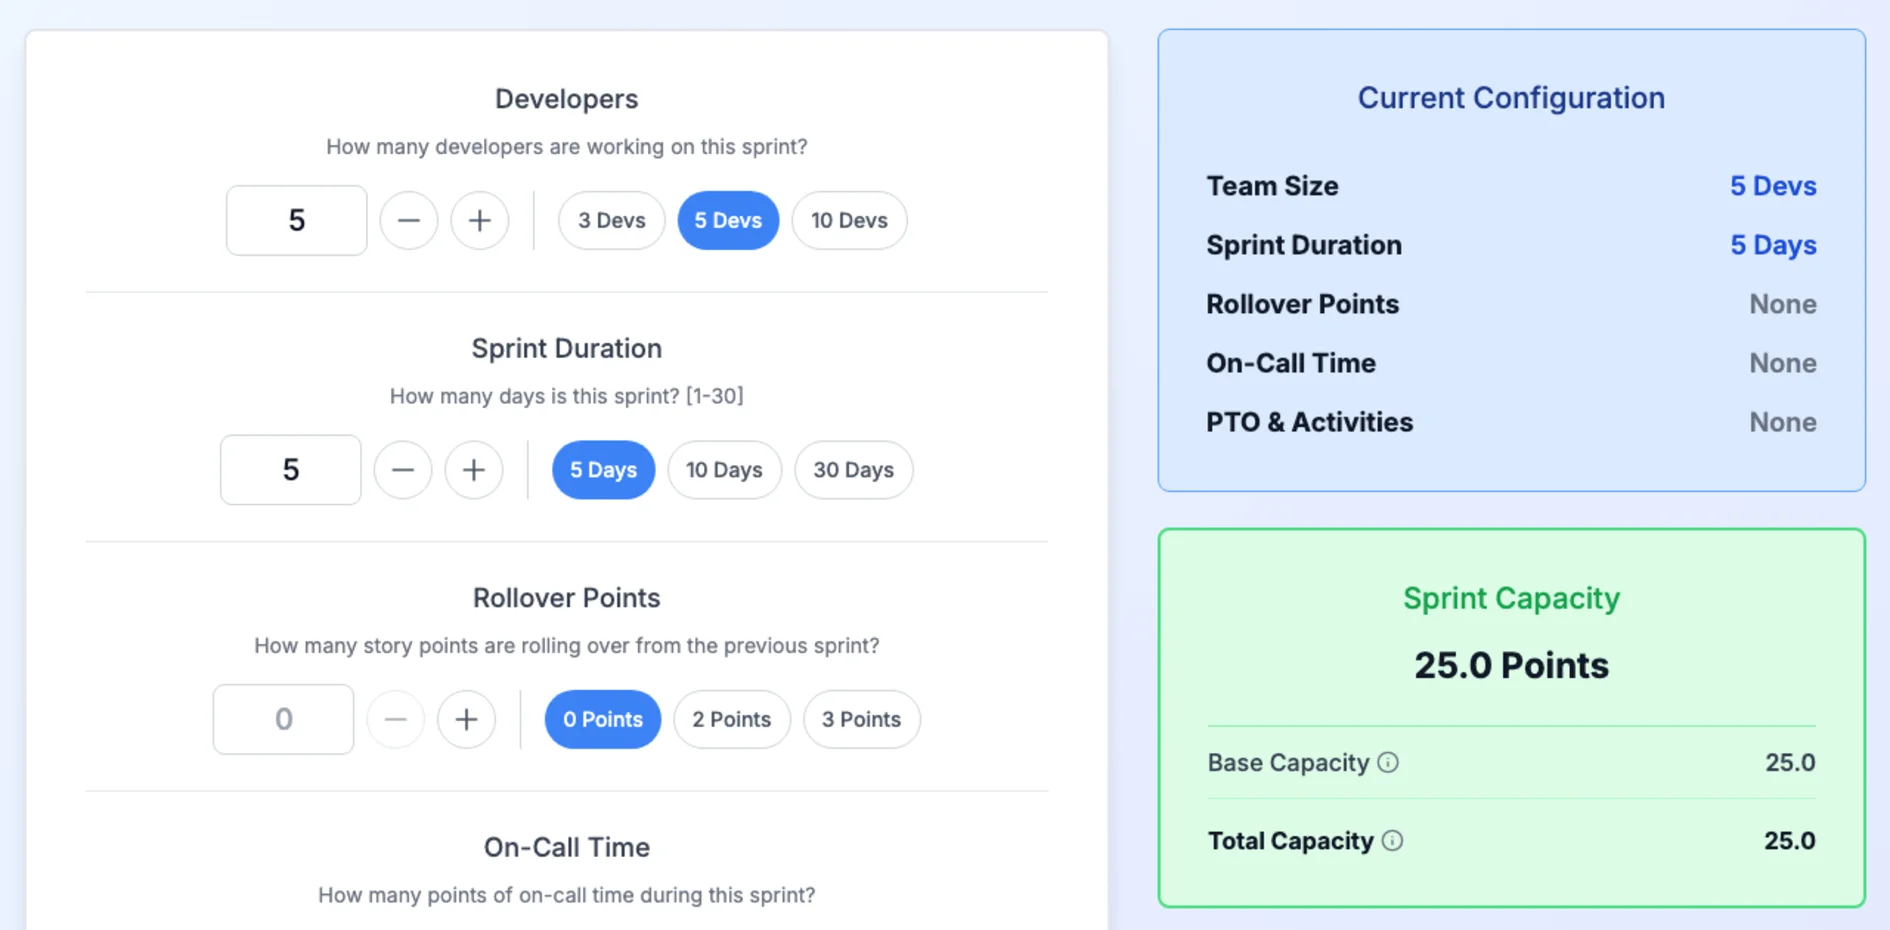
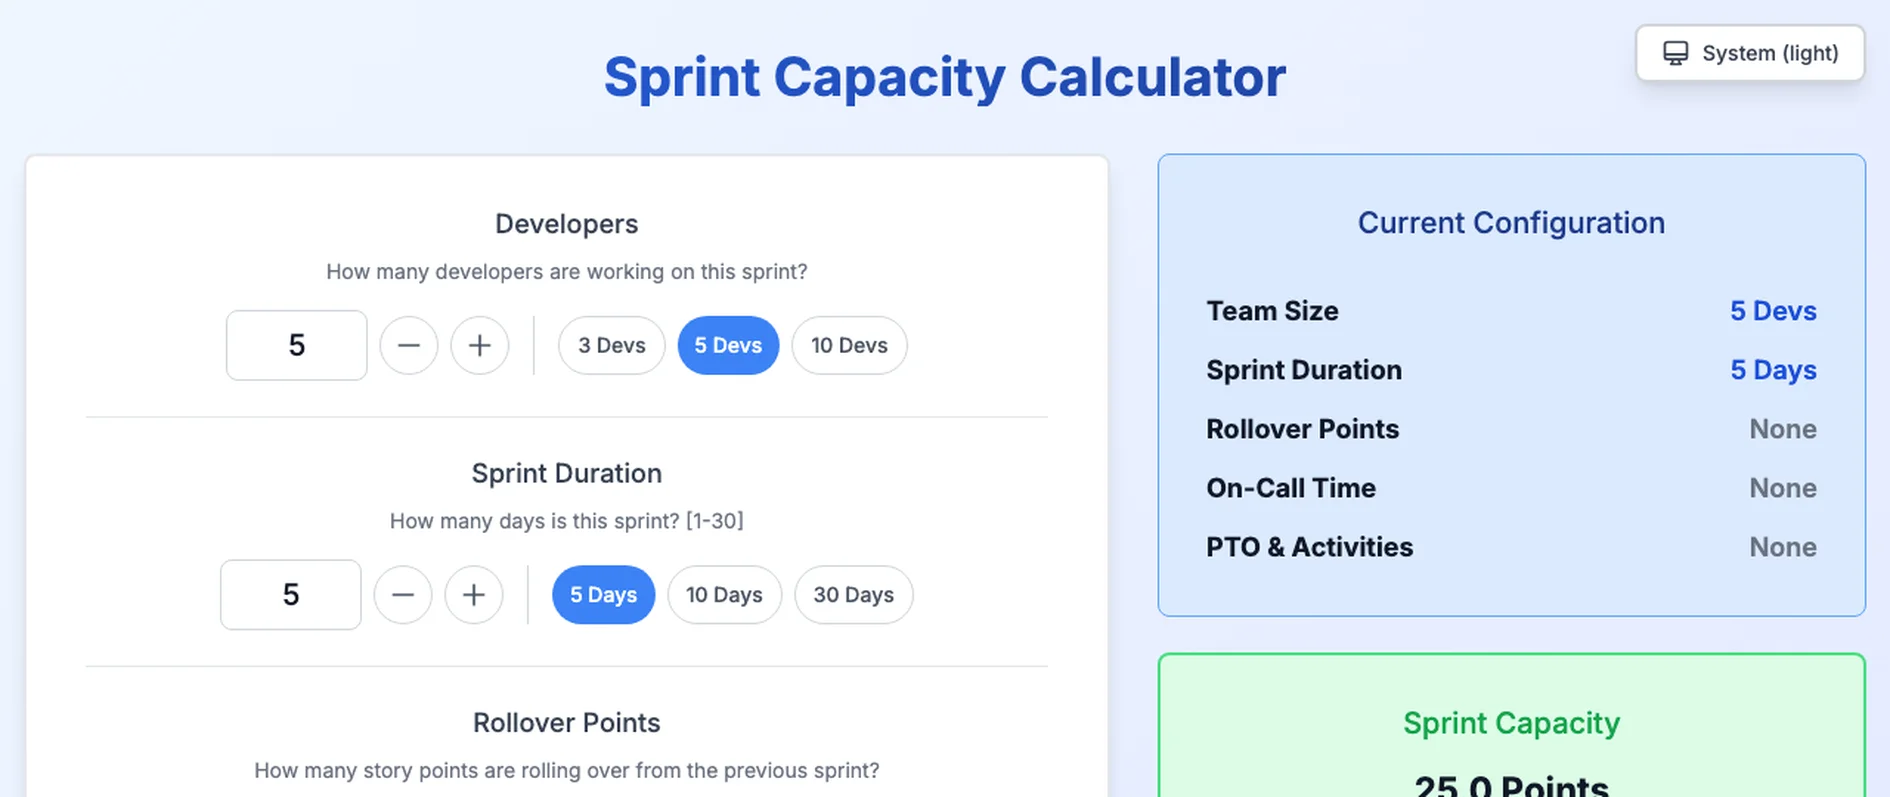
feat: add software projects and refresh project thumbnails
Add TrueNAS Config Backup, readme-screenshot, DiagonalBlend, Jira Quick
Filters, and SDGE Rate Checker; convert bullet copy to markdown strings.

diff --git a/src/data/swProjects.ts b/src/data/swProjects.ts
@@ -1,5 +1,6 @@
 import AMSLawThumbnail from "assets/Projects/Software/AMS_Law.webp"
 import ChickFilAThumbnail from "assets/Projects/Software/Chick_Fil_A.webp"
+import DiagonalBlendThumbnail from "assets/Projects/Software/DiagonalBlend.webp"
 import DiggermanVideoThumbnailMp4 from "assets/Projects/Software/Diggerman.mp4"
 import DiggermanVideoThumbnail from "assets/Projects/Software/Diggerman.webm"
 import DiggermanThumbnail from "assets/Projects/Software/Diggerman.webp"
@@ -7,13 +8,16 @@ import FaceSwappingVideoThumbnailMp4 from "assets/Projects/Software/Face_Morphin
 import FaceSwappingVideoThumbnail from "assets/Projects/Software/Face_Morphing.webm"
 import FaceSwappingThumbnail from "assets/Projects/Software/Face_Morphing.webp"
 import HomeServerThumbnail from "assets/Projects/Software/Home_Server.webp"
+import JiraQuickFiltersThumbnail from "assets/Projects/Software/Jira_Quick_Filters.webp"
 import ObjectDetectionThumbnail from "assets/Projects/Software/Object_Detection.webp"
 import PlextraktboxThumbnail from "assets/Projects/Software/Plextraktbox.webp"
 import PortfolioThumbnail from "assets/Projects/Software/Portfolio_Thumbnail.webp"
+import ReadmeScreenshotThumbnail from "assets/Projects/Software/Readme_Screenshot.webp"
+import SDGERateCheckerThumbnail from "assets/Projects/Software/SDGE_Rate_Checker.webp"
 import SpotifyPPThumbnail from "assets/Projects/Software/Spotify.webp"
 import SprintPlannerThumbnail from "assets/Projects/Software/Sprint_Planner.webp"
+import TrueNASConfigBackupThumbnail from "assets/Projects/Software/TrueNAS_Config_Backup.webp"
 import { SoftwareProject, SoftwareProjectMap } from "types/project.types"
-import { createExternalLink } from "utils/contentUtils"
 
 import * as technologies from "./technologies"
 
@@ -32,16 +36,10 @@ const projects: SoftwareProject[] = [
       technologies.CLOUDFLARE,
     ],
     bulletPoints: [
-      [
-        "Professional law firm website specializing in estate planning, built with Next.js 15 and React 19, deployed on Cloudflare Workers.",
-      ],
-      [
-        "Features responsive design with dark mode support, contact form with email integration using ",
-        createExternalLink("Resend", "https://resend.com/"),
-        ", Yelp reviews integration, and interactive maps.",
-      ],
-      ["Includes comprehensive FAQ section, attorney profile, services overview, and SEO optimization with structured data."],
-      ["Automated testing with Vitest and Playwright, CI/CD pipeline with GitHub Actions, and semantic versioning for releases."],
+      "Professional law firm website specializing in estate planning, built with Next.js 15 and React 19, deployed on Cloudflare Workers.",
+      "Features responsive design with dark mode support, contact form with email integration using [Resend](https://resend.com/), Yelp reviews integration, and interactive maps.",
+      "Includes comprehensive FAQ section, attorney profile, services overview, and SEO optimization with structured data.",
+      "Automated testing with Vitest and Playwright, CI/CD pipeline with GitHub Actions, and semantic versioning for releases.",
     ],
     githubLink: "https://github.com/CampAsAChamp/amslaw",
     siteLink: "https://annamschneiderlaw.com",
@@ -51,15 +49,9 @@ const projects: SoftwareProject[] = [
     name: "Sprint Planner",
     technologies: [technologies.NEXTJS, technologies.REACT, technologies.TYPESCRIPT, technologies.TAILWIND, technologies.GITHUB_ACTIONS],
     bulletPoints: [
-      [
-        "Next.js PWA for real-time sprint capacity planning: ",
-        "(team members × sprint days) − PTO days − on-call days − rollover points",
-        ".",
-      ],
-      [
-        "Tracks PTO and activities, on-call time, and unfinished work from prior sprints; save, load, duplicate, rename, and delete configurations in local storage.",
-      ],
-      ["Static export deployed to GitHub Pages with installable PWA support, dark mode, and toast feedback."],
+      "Next.js PWA for real-time sprint capacity planning: (team members × sprint days) − PTO days − on-call days − rollover points.",
+      "Tracks PTO and activities, on-call time, and unfinished work from prior sprints; save, load, duplicate, rename, and delete configurations in local storage.",
+      "Static export deployed to GitHub Pages with installable PWA support, dark mode, and toast feedback.",
     ],
     githubLink: "https://github.com/CampAsAChamp/sprint-planner",
     siteLink: "https://campasachamp.github.io/sprint-planner/",
@@ -79,44 +71,77 @@ const projects: SoftwareProject[] = [
       technologies.LINUX,
     ],
     bulletPoints: [
-      [
-        "Self-hosted all-in-one sync for ",
-        createExternalLink("Plex", "https://www.plex.tv/"),
-        ", ",
-        createExternalLink("Letterboxd", "https://letterboxd.com/"),
-        ", and ",
-        createExternalLink("Trakt", "https://trakt.tv/"),
-        " — web UI, built-in scheduler, live log streaming, and notifications in one Docker image.",
-      ],
-      [
-        "Per-data-type source of truth: watchlist from Plex, ratings from Letterboxd (read-only), watched history from Trakt; FastAPI + React/Vite SPA with SQLite persistence and Mantine UI.",
-      ],
-      [
-        "Targets ",
-        createExternalLink("TrueNAS SCALE", "https://www.truenas.com/truenas-scale/"),
-        " for home-lab installs; App Catalog publication planned so others can install easily.",
-      ],
+      "Self-hosted all-in-one sync for [Plex](https://www.plex.tv/), [Letterboxd](https://letterboxd.com/), and [Trakt](https://trakt.tv/) — web UI, built-in scheduler, live log streaming, and notifications in one Docker image.",
+      "Per-data-type source of truth: watchlist from Plex, ratings from Letterboxd (read-only), watched history from Trakt; FastAPI + React/Vite SPA with SQLite persistence and Mantine UI.",
+      "Targets [TrueNAS SCALE](https://www.truenas.com/truenas-scale/) for home-lab installs; App Catalog publication planned so others can install easily.",
     ],
     githubLink: "https://github.com/CampAsAChamp/plextraktbox",
     thumbnail: PlextraktboxThumbnail,
   },
   {
+    name: "TrueNAS Config Backup",
+    technologies: [technologies.PYTHON, technologies.FASTAPI, technologies.DOCKER, technologies.LINUX],
+    bulletPoints: [
+      "Scheduled [TrueNAS SCALE](https://www.truenas.com/truenas-scale/) config backups via the WebSocket API (`config.save` + `core.download`), with API-key auth, retention pruning, and run-history logging.",
+      "Web dashboard to view, download, and delete backups; optional cron schedule (APScheduler) plus on-demand run now.",
+      "Packaged as a Custom App (native Docker) for TrueNAS SCALE 24.10+ with health checks and jsonl run history.",
+    ],
+    githubLink: "https://github.com/CampAsAChamp/truenas-config-backup",
+    thumbnail: TrueNASConfigBackupThumbnail,
+    thumbnailObjectPosition: "top left",
+  },
+  {
+    name: "readme-screenshot",
+    technologies: [technologies.TYPESCRIPT, technologies.NODEJS, technologies.PLAYWRIGHT, technologies.GITHUB_ACTIONS, technologies.VITEST],
+    bulletPoints: [
+      "Config-driven [Playwright](https://playwright.dev/) screenshot automation for static sites and web apps — define capture, theme, and server setup in `.readme-screenshot.yml`.",
+      "Optional light/dark blend step via DiagonalBlend for README hero images; validate, capture, and commit-message CLI commands.",
+      "Reusable GitHub Actions workflow auto-captures screenshots and commits updated assets on a schedule or after deploys.",
+    ],
+    githubLink: "https://github.com/CampAsAChamp/readme-screenshot",
+    thumbnail: ReadmeScreenshotThumbnail,
+  },
+  {
+    name: "DiagonalBlend",
+    technologies: [technologies.PYTHON, technologies.FASTAPI, technologies.HTML5, technologies.CSS3],
+    bulletPoints: [
+      "Blends two same-scene images along a diagonal line with a soft gradient — built for comparing light and dark mode screenshots in README hero images.",
+      "CLI (`diag_blend`), Python API (`blend_images`), and drag-and-drop web UI with live preview and PNG download.",
+      "Configurable blend angle, width, and flip sides; FastAPI backend serves the web UI and `/api/blend` endpoint.",
+    ],
+    githubLink: "https://github.com/CampAsAChamp/DiagonalBlend",
+    thumbnail: DiagonalBlendThumbnail,
+  },
+  {
+    name: "Jira Mutually Exclusive Quick Filters",
+    technologies: [technologies.JAVASCRIPT, technologies.HTML5, technologies.CSS3],
+    bulletPoints: [
+      "Chrome extension (Manifest V3) that makes Jira quick filters mutually exclusive — clicking one filter auto-deselects all others.",
+      "Toggle on/off via the extension popup; settings persist across browser sessions via Chrome Storage API.",
+      "Works on [Atlassian Cloud](https://www.atlassian.com/software/jira) and common self-hosted Jira URL patterns (Backlog and Active Sprint views).",
+    ],
+    githubLink: "https://github.com/CampAsAChamp/jira-single-click-filters",
+    thumbnail: JiraQuickFiltersThumbnail,
+  },
+  {
+    name: "SDGE Rate Checker",
+    technologies: [technologies.JAVASCRIPT, technologies.HTML5, technologies.CSS3],
+    bulletPoints: [
+      "Real-time [SDGE](https://www.sdge.com/) Time of Use period tracker — shows current rate level, time range, and when the next period change occurs.",
+      "Automatic weekday/weekend and seasonal schedule detection (summer vs. winter TOU windows).",
+      "Static single-page app with live updates every second; deployed to GitHub Pages with no backend required.",
+    ],
+    githubLink: "https://github.com/CampAsAChamp/sdge-rate-checker",
+    siteLink: "https://campasachamp.github.io/sdge-rate-checker/",
+    thumbnail: SDGERateCheckerThumbnail,
+  },
+  {
     name: "Los Angeles Sports Chick Fil A Scraper",
     technologies: [technologies.PYTHON, technologies.GITHUB_ACTIONS],
     bulletPoints: [
-      [
-        "Python scraper (Beautiful Soup + requests) that pulls prior day match results from ",
-        createExternalLink("Baseball-Reference", "https://www.baseball-reference.com/"),
-        ", ",
-        createExternalLink("Hockey-Reference", "https://www.hockey-reference.com/"),
-        ", and ",
-        createExternalLink("FBref", "https://fbref.com/"),
-        " for Angels, Ducks, and LAFC, then checks Chick-fil-A home-game promo thresholds: Angels 7+ runs, Ducks 5+ goals, or an LAFC win.",
-      ],
-      ["Season-aware scheduling: only evaluates each team while that sport is in season; runs daily at 8 AM PT via GitHub Actions cron."],
-      [
-        "Emails a Gmail SMTP reminder when criteria are met; includes local HTML sample pages so the parsers can be tested without hitting live sites.",
-      ],
+      "Python scraper (Beautiful Soup + requests) that pulls prior day match results from [Baseball-Reference](https://www.baseball-reference.com/), [Hockey-Reference](https://www.hockey-reference.com/), and [FBref](https://fbref.com/) for Angels, Ducks, and LAFC, then checks Chick-fil-A home-game promo thresholds: Angels 7+ runs, Ducks 5+ goals, or an LAFC win.",
+      "Season-aware scheduling: only evaluates each team while that sport is in season; runs daily at 8 AM PT via GitHub Actions cron.",
+      "Emails a Gmail SMTP reminder when criteria are met; includes local HTML sample pages so the parsers can be tested without hitting live sites.",
     ],
     githubLink: "https://github.com/CampAsAChamp/los-angeles-sports-chick-fil-a-scraper",
     thumbnail: ChickFilAThumbnail,
@@ -134,17 +159,9 @@ const projects: SoftwareProject[] = [
       technologies.FIGMA,
     ],
     bulletPoints: [
-      [
-        "Personal portfolio SPA (React + TypeScript + Vite) at ",
-        createExternalLink("nickhs.dev", "https://nickhs.dev"),
-        ", with dark/light theme, scroll-driven sections, and Cloudflare Pages deploy.",
-      ],
-      [
-        "Local experience-sync pipeline: YAML source of truth with a localhost editor that syncs experience copy into the site plus LinkedIn/resume exports.",
-      ],
-      [
-        "Quality bar: Vitest unit tests, Playwright desktop/mobile E2E, Lighthouse CI, Husky/lint-staged hooks, and semantic-release for versioning and changelog.",
-      ],
+      "Personal portfolio SPA (React + TypeScript + Vite) at [nickhs.dev](https://nickhs.dev), with dark/light theme, scroll-driven sections, and Cloudflare Pages deploy.",
+      "Experience-sync tooling: YAML source of truth with a localhost editor (`yarn exp:ui`) that generates portfolio experience data and LinkedIn/resume exports — one place to edit job-history copy across channels.",
+      "Quality bar: Vitest unit tests, Playwright desktop/mobile E2E, Lighthouse CI, Husky/lint-staged hooks, and semantic-release for versioning and changelog.",
     ],
     githubLink: "https://github.com/CampAsAChamp/portfolio",
     siteLink: "https://nickhs.dev",
@@ -163,15 +180,9 @@ const projects: SoftwareProject[] = [
       technologies.CLOUDFLARE,
     ],
     bulletPoints: [
-      [
-        "Self-hosted Ubuntu lab: Docker Compose stacks behind Nginx Proxy Manager, with Cloudflare-facing hostnames and a Homer dashboard for service discovery.",
-      ],
-      [
-        "Media pipeline: Plex + Sonarr/Radarr/Prowlarr/Jackett, qBittorrent routed through a Gluetun VPN, plus Immich for photos and File Browser for storage.",
-      ],
-      [
-        "Ops extras: Portainer for container management, Scrutiny for drive health, Watchtower for image updates, MergerFS/SnapRAID-backed pool storage, plus optional Spotify analytics and Minecraft stacks.",
-      ],
+      "Self-hosted Ubuntu lab: Docker Compose stacks behind Nginx Proxy Manager, with Cloudflare-facing hostnames and a Homer dashboard for service discovery.",
+      "Media pipeline: Plex + Sonarr/Radarr/Prowlarr/Jackett, qBittorrent routed through a Gluetun VPN, plus Immich for photos and File Browser for storage.",
+      "Ops extras: Portainer for container management, Scrutiny for drive health, Watchtower for image updates, MergerFS/SnapRAID-backed pool storage, plus optional Spotify analytics and Minecraft stacks.",
     ],
     githubLink: "https://github.com/CampAsAChamp/home-server",
     thumbnail: HomeServerThumbnail,
@@ -180,17 +191,9 @@ const projects: SoftwareProject[] = [
     name: "Diggerman",
     technologies: [technologies.CPP, technologies.OPEN_GL],
     bulletPoints: [
-      [
-        "Dig Dug–style 2D game in C++ with ",
-        createExternalLink("OpenGL", "https://www.opengl.org/"),
-        "/freeglut: dig through a dirt grid, avoid falling boulders, collect oil barrels to clear the level.",
-      ],
-      [
-        'Protester AI with state machines (wander, chase, stunned, leave); pathfinding via BFS back to the exit; harder "hardcore" protesters that track the player more aggressively.',
-      ],
-      [
-        "Player tools and pickups: water squirts, sonar reveal, gold bait to distract enemies, scoring, and irrKlang sound effects; built as a Visual Studio team project.",
-      ],
+      "Dig Dug–style 2D game in C++ with [OpenGL](https://www.opengl.org/)/freeglut: dig through a dirt grid, avoid falling boulders, collect oil barrels to clear the level.",
+      'Protester AI with state machines (wander, chase, stunned, leave); pathfinding via BFS back to the exit; harder "hardcore" protesters that track the player more aggressively.',
+      "Player tools and pickups: water squirts, sonar reveal, gold bait to distract enemies, scoring, and irrKlang sound effects; built as a Visual Studio team project.",
     ],
     githubLink: "https://github.com/CampAsAChamp/DiggerMan",
     thumbnail: DiggermanThumbnail,
@@ -209,16 +212,8 @@ const projects: SoftwareProject[] = [
       technologies.CSS3,
     ],
     bulletPoints: [
-      [
-        "Created Spotify browser using the ",
-        createExternalLink("Spotify Web API", "https://developer.spotify.com/documentation/web-api/"),
-        " with custom front end interface built from the ground up using ",
-        createExternalLink("Spicetify", "https://github.com/khanhas/spicetify-cli"),
-        " to inject custom CSS and Javascript into the Spotify client.",
-      ],
-      [
-        "Adds additional track information the user normally doesn't have access to such as dance-ability, energy, acousticness, instrumentalness, and liveness provided by the track endpoint.",
-      ],
+      "Created Spotify browser using the [Spotify Web API](https://developer.spotify.com/documentation/web-api/) with custom front end interface built from the ground up using [Spicetify](https://github.com/khanhas/spicetify-cli) to inject custom CSS and Javascript into the Spotify client.",
+      "Adds additional track information the user normally doesn't have access to such as dance-ability, energy, acousticness, instrumentalness, and liveness provided by the track endpoint.",
     ],
     githubLink: "https://github.com/CampAsAChamp/SpotifyPP",
     thumbnail: SpotifyPPThumbnail,
@@ -227,11 +222,9 @@ const projects: SoftwareProject[] = [
     name: "Object & Face Detection System",
     technologies: [technologies.PYTHON, technologies.NUMPY],
     bulletPoints: [
-      ["From-scratch object detector in Python/NumPy: image gradients → HOG descriptors over 8×8 blocks with 9 orientation bins."],
-      [
-        "Learns a template as average positive HOG minus average negative HOG, then finds matches with sliding-window correlation and non-maxima suppression.",
-      ],
-      ["Validated on faces and a second category (traffic signs), including scenes with multiple detections."],
+      "From-scratch object detector in Python/NumPy: image gradients → HOG descriptors over 8×8 blocks with 9 orientation bins.",
+      "Learns a template as average positive HOG minus average negative HOG, then finds matches with sliding-window correlation and non-maxima suppression.",
+      "Validated on faces and a second category (traffic signs), including scenes with multiple detections.",
     ],
     githubLink: "https://github.com/CampAsAChamp/ObjectDetection",
     thumbnail: ObjectDetectionThumbnail,
@@ -240,13 +233,9 @@ const projects: SoftwareProject[] = [
     name: "Face Swapping",
     technologies: [technologies.PYTHON, technologies.NUMPY],
     bulletPoints: [
-      [
-        "Piecewise affine face warping in Python/NumPy: estimate per-triangle affine transforms from annotated keypoints, then backward-warp with bilinear sampling.",
-      ],
-      ["Builds morph sequences by interpolating correspondences between two faces and cross-dissolving warped frames into a video."],
-      [
-        "Face swap composites a warped face onto another image using a triangle-region mask with Gaussian-feathered alpha blending to reduce seams.",
-      ],
+      "Piecewise affine face warping in Python/NumPy: estimate per-triangle affine transforms from annotated keypoints, then backward-warp with bilinear sampling.",
+      "Builds morph sequences by interpolating correspondences between two faces and cross-dissolving warped frames into a video.",
+      "Face swap composites a warped face onto another image using a triangle-region mask with Gaussian-feathered alpha blending to reduce seams.",
     ],
     githubLink: "https://github.com/CampAsAChamp/FaceSwap",
     thumbnail: FaceSwappingThumbnail,

diff --git a/tests/unit/components/SwProjects/SwProjects.test.tsx b/tests/unit/components/SwProjects/SwProjects.test.tsx
@@ -11,23 +11,23 @@ describe("SWProjects", () => {
   it("renders the correct number of project cards", () => {
     render(<SWProjects />)
     const projectCards = screen.getAllByRole("button")
-    // Should have 13 project action buttons (10 "View Code" + 3 "Visit Site")
-    // Plus 2 theme switcher buttons = 15 total
-    expect(projectCards.length).toBe(15)
+    // Should have 19 project action buttons (15 "View Code" + 4 "Visit Site")
+    // Plus 2 theme switcher buttons = 21 total
+    expect(projectCards.length).toBe(21)
   })
 
   it("renders View Code button for projects with githubLink", () => {
     render(<SWProjects />)
     const githubButtons = screen.getAllByText("View Code")
-    // All 10 projects have GitHub links
-    expect(githubButtons.length).toBe(10)
+    // All 15 projects have GitHub links
+    expect(githubButtons.length).toBe(15)
   })
 
   it("renders Visit Site button for projects with siteLink", () => {
     render(<SWProjects />)
     const siteButtons = screen.getAllByText("Visit Site")
-    // 3 projects have site links (Anna M. Schneider Law, Sprint Planner, and Portfolio Website)
-    expect(siteButtons.length).toBe(3)
+    // 4 projects have site links (Anna M. Schneider Law, Sprint Planner, Portfolio Website, SDGE Rate Checker)
+    expect(siteButtons.length).toBe(4)
   })
 
   it("renders all project names", () => {

diff --git a/src/components/SwProjects/SwProjectImage.tsx b/src/components/SwProjects/SwProjectImage.tsx
@@ -5,5 +5,14 @@ interface SwProjectImageProps {
 }
 
 export function SwProjectImage({ project }: SwProjectImageProps): React.ReactElement {
-  return <img className="sw-projects-thumbnail" src={project.thumbnail} alt={project.name} title={project.name} loading="lazy" />
+  return (
+    <img
+      className="sw-projects-thumbnail"
+      src={project.thumbnail}
+      alt={project.name}
+      title={project.name}
+      loading="lazy"
+      style={project.thumbnailObjectPosition ? { objectPosition: project.thumbnailObjectPosition } : undefined}
+    />
+  )
 }

diff --git a/src/types/project.types.ts b/src/types/project.types.ts
@@ -10,6 +10,7 @@ export interface SoftwareProject {
   githubLink?: string
   siteLink?: string
   thumbnail: string
+  thumbnailObjectPosition?: string
   videoThumbnail?: string
   videoThumbnailMp4?: string
   isVideo?: boolean
